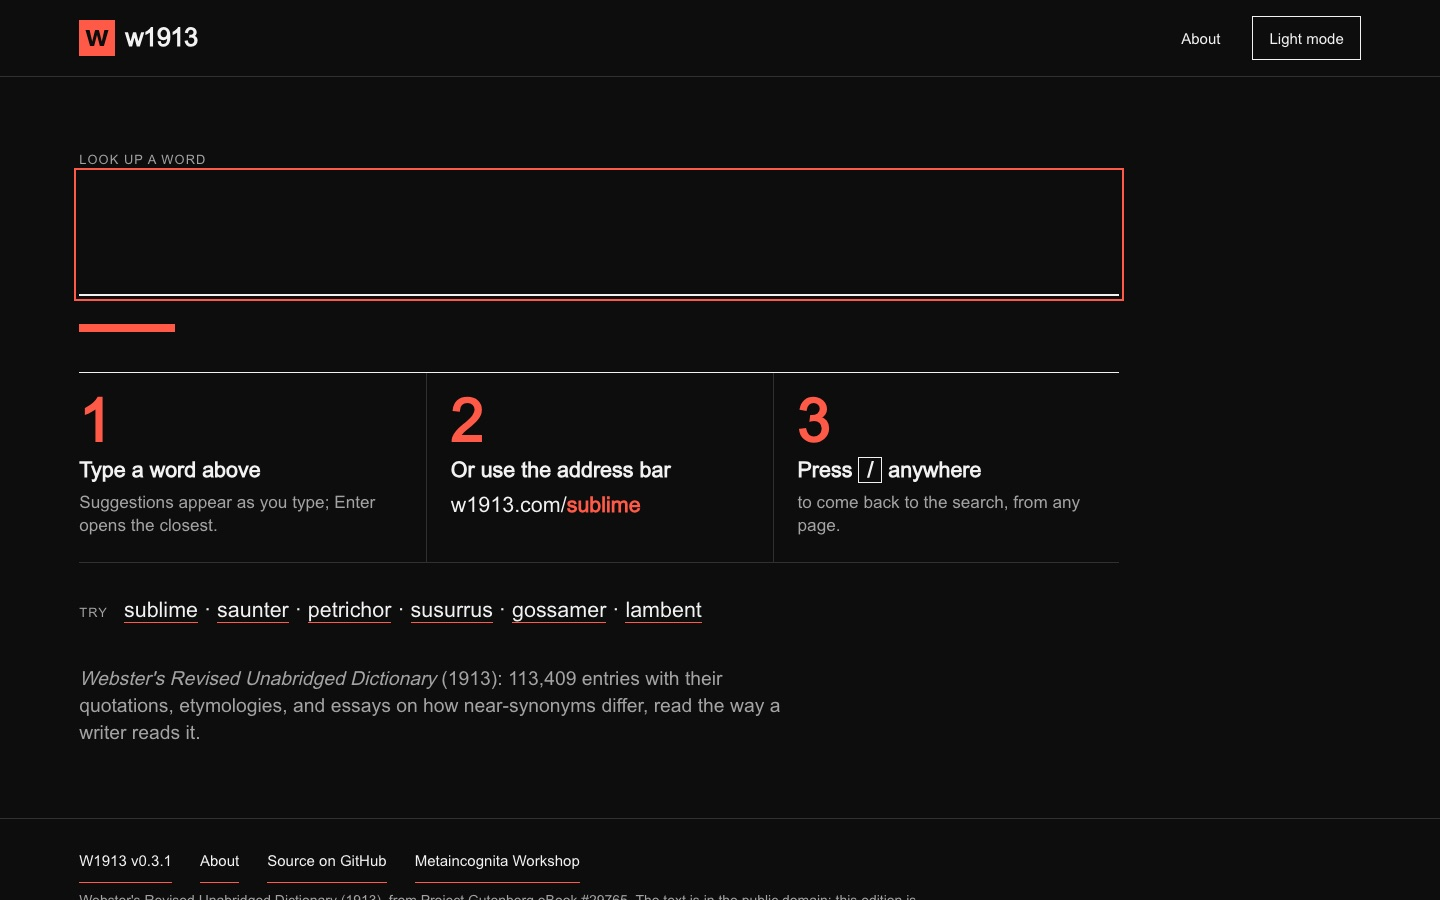
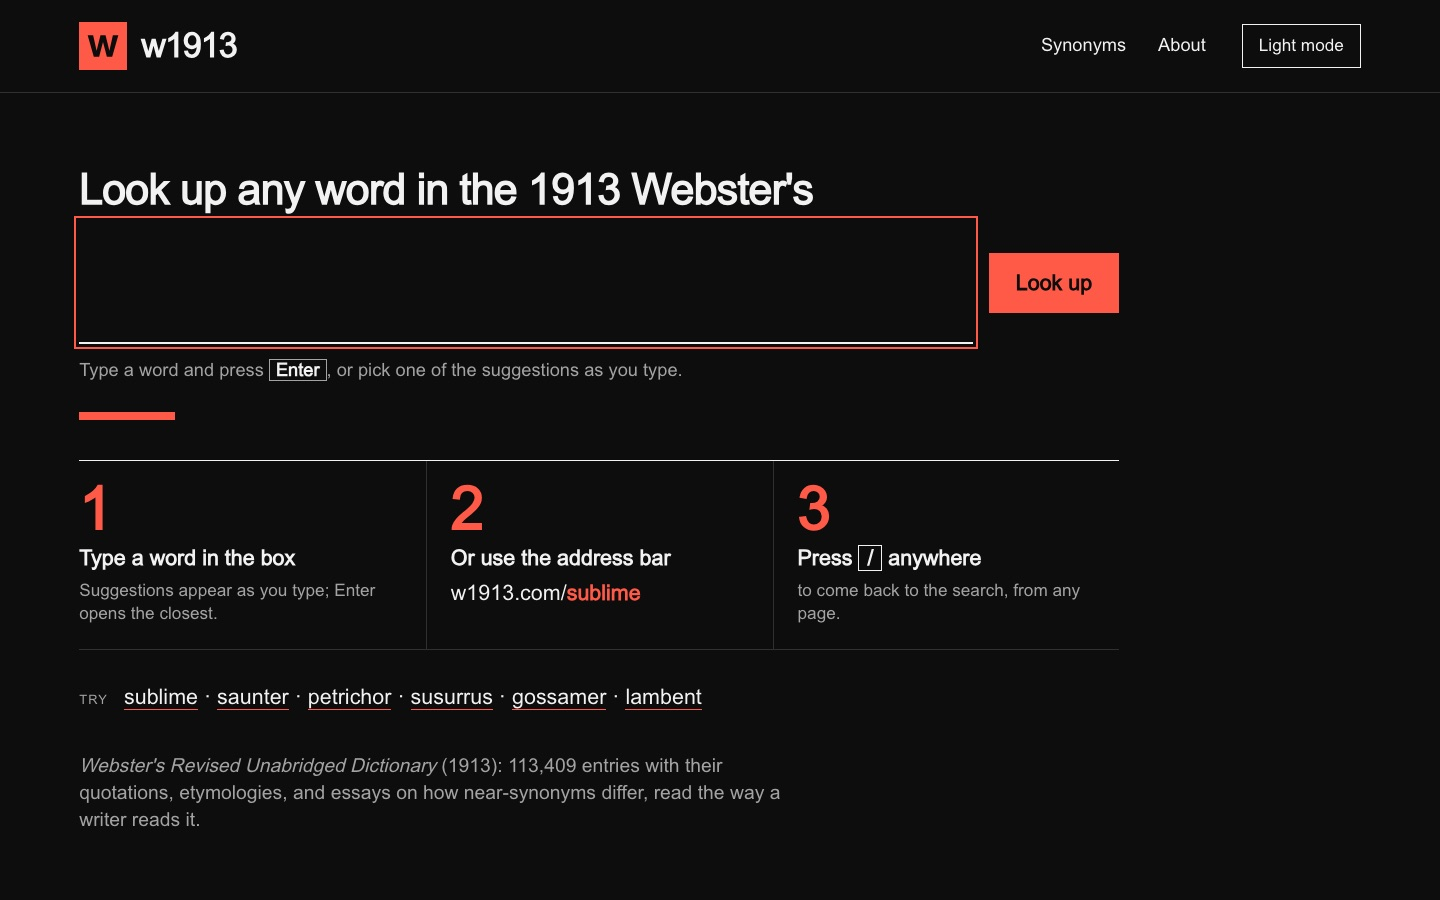
v0.6.1: say what the home page is for; a larger header
- Home: a visible heading that labels the field ('Look up any word in
  the 1913 Webster's'), a red Look up button beside the field (on entry
  pages too), and a one-line instruction under it.
- Header: logo badge 48 px, wordmark 32 px, larger links and theme
  button.
- README screenshots refreshed.

diff --git a/apps/site/app/components/SearchBox.vue b/apps/site/app/components/SearchBox.vue
@@ -83,7 +83,8 @@ const itemClass = computed(() => (props.size === "hero" ? "rounded-none text-xl 
 
 <template>
   <form role="search" :class="['box', size === 'hero' ? 'is-hero' : 'is-bar']" @submit.prevent="freeText(term)">
-    <label for="lookup" class="cap lbl">Look up a word</label>
+    <h1 v-if="size === 'hero'" class="ask"><label for="lookup">Look up any word in the 1913 Webster's</label></h1>
+    <label v-else for="lookup" class="cap lbl">Look up a word</label>
     <div class="row">
     <UInputMenu
       id="lookup"
@@ -107,9 +108,11 @@ const itemClass = computed(() => (props.size === "hero" ? "rounded-none text-xl 
         <span class="cap">Type a word</span>
       </template>
     </UInputMenu>
+    <button type="submit" class="btn go">Look up</button>
     <button v-if="term" type="button" class="btn clear" @click="clear">Clear<span class="vh"> the search</span></button>
     </div>
-    <p v-if="size === 'bar'" class="hint" aria-hidden="true">Press <kbd>/</kbd> or <kbd>Ctrl K</kbd> to look up from anywhere</p>
+    <p v-if="size === 'hero'" class="hint big">Type a word and press <kbd>Enter</kbd>, or pick one of the suggestions as you type.</p>
+    <p v-else class="hint" aria-hidden="true">Press <kbd>/</kbd> or <kbd>Ctrl K</kbd> to look up from anywhere</p>
   </form>
 </template>
 
@@ -119,7 +122,12 @@ const itemClass = computed(() => (props.size === "hero" ? "rounded-none text-xl 
 .row { display: flex; align-items: center; gap: 16px; }
 .field { display: flex; width: 100%; flex: 1; min-width: 0; }
 .clear { flex: none; }
-.is-hero .clear { min-height: 56px; padding: 0 22px; font-size: 18px; }
+.go { flex: none; background: var(--ac); color: var(--on); border-color: var(--ac); font-weight: 700; }
+.go:hover { background: transparent; color: var(--ac); }
+.is-hero .clear, .is-hero .go { min-height: 60px; padding: 0 26px; font-size: 20px; }
+.ask { margin: 0 0 8px; font-size: clamp(24px, 3.4vw, 40px); font-weight: 700; letter-spacing: -.02em; line-height: 1.15; }
+.hint.big { margin-top: 14px; font-size: 17px; }
+@media (max-width: 560px) { .row { flex-wrap: wrap; } .field { flex-basis: 100%; } }
 .box :deep(input) { width: 100%; }
 .is-bar { max-width: 860px; }
 .is-hero :deep(input) { height: auto; padding-top: 4px; padding-bottom: 8px; font-size: clamp(40px, 8vw, 104px); font-weight: 700; letter-spacing: -.045em; line-height: 1.05; }

diff --git a/apps/site/app/components/SiteHeader.vue b/apps/site/app/components/SiteHeader.vue
@@ -2,7 +2,7 @@
   <header class="pad hdr">
     <!-- The badge is a drawing (no text), so the link's name is its visible word plus "home" (WCAG 2.5.3). -->
     <NuxtLink to="/" class="t mark">
-      <svg class="badge" viewBox="0 0 36 36" width="36" height="36" aria-hidden="true" focusable="false">
+      <svg class="badge" viewBox="0 0 36 36" width="48" height="48" aria-hidden="true" focusable="false">
         <rect width="36" height="36" fill="currentColor" />
         <path d="M6.5 10h4.1l2.6 11.6L16.1 10h3.8l2.9 11.6L25.4 10h4.1l-4.6 16h-4l-2.9-11-2.9 11h-4z" fill="var(--on)" />
       </svg>
@@ -17,12 +17,12 @@
 </template>
 
 <style scoped>
-.hdr { display: flex; flex-wrap: wrap; align-items: center; gap: 12px 32px; padding-top: 16px; padding-bottom: 16px; border-bottom: 1px solid var(--ln); }
+.hdr { display: flex; flex-wrap: wrap; align-items: center; gap: 12px 36px; padding-top: 22px; padding-bottom: 22px; border-bottom: 1px solid var(--ln); }
 /* The logo: the accent square from the social card, with the wordmark. */
-.mark { gap: 10px; margin-right: auto; }
-.badge { width: 36px; height: 36px; color: var(--ac); flex: none; }
-.word { font-size: 24px; font-weight: 700; letter-spacing: -.03em; }
+.mark { gap: 14px; margin-right: auto; }
+.badge { width: 48px; height: 48px; color: var(--ac); flex: none; }
+.word { font-size: 32px; font-weight: 700; letter-spacing: -.035em; }
 .mark:hover .word { color: var(--ac); }
-.sections { display: flex; flex-wrap: wrap; gap: 0 28px; font-size: 14px; }
+.sections { display: flex; flex-wrap: wrap; gap: 0 32px; font-size: 17px; }
 .sections .on { font-weight: 700; box-shadow: inset 0 -2px 0 var(--ac); }
 </style>

diff --git a/apps/site/app/pages/index.vue b/apps/site/app/pages/index.vue
@@ -10,14 +10,13 @@ const host = config.site.url.replace(/^https?:\/\//, "");
 
 <template>
   <div class="home">
-    <h1 class="vh">W1913: Webster's Revised Unabridged Dictionary (1913)</h1>
     <SearchBox size="hero" autofocus />
     <div aria-hidden="true" class="bar" />
 
     <ol class="ways" aria-label="Ways to look up a word">
       <li>
         <span class="num">1</span>
-        <span class="what">Type a word above</span>
+        <span class="what">Type a word in the box</span>
         <span class="how">Suggestions appear as you type; Enter opens the closest.</span>
       </li>
       <li>

diff --git a/apps/site/app/components/ThemeToggle.vue b/apps/site/app/components/ThemeToggle.vue
@@ -9,9 +9,13 @@ function toggle() {
 
 <template>
   <ClientOnly>
-    <button type="button" class="btn" @click="toggle">{{ isDark ? "Light mode" : "Dark mode" }}</button>
+    <button type="button" class="btn tbtn" @click="toggle">{{ isDark ? "Light mode" : "Dark mode" }}</button>
     <template #fallback>
       <button type="button" class="btn" disabled>Light mode</button>
     </template>
   </ClientOnly>
 </template>
+
+<style scoped>
+.tbtn { font-size: 16px; }
+</style>

diff --git a/README.md b/README.md
@@ -1,7 +1,7 @@
 ![w1913.com: W for Webster's, 1913 for the Revised Unabridged edition. A dictionary for writers.](assets/og-image.png)
 
 [![Live: w1913.com](https://img.shields.io/badge/live-w1913.com-c8102e.svg)](https://w1913.com)
-[![Version 0.6.0](https://img.shields.io/badge/version-0.6.0-111111.svg)](CHANGELOG.md)
+[![Version 0.6.1](https://img.shields.io/badge/version-0.6.1-111111.svg)](CHANGELOG.md)
 [![Code: MIT](https://img.shields.io/badge/code-MIT-111111.svg)](LICENSE)
 [![Data: CC0 1.0](https://img.shields.io/badge/data-CC0%201.0-111111.svg)](LICENSE-DATA)
 [![Node 24](https://img.shields.io/badge/node-24-111111.svg)](.nvmrc)
@@ -15,7 +15,7 @@ The 1913 Webster's is loved for its discursive definitions, its literary quotati
 
 **Live at [w1913.com](https://w1913.com).** Type any word after the address: [w1913.com/sublime](https://w1913.com/sublime).
 
-![The W1913 home page: a large "Look up a word" field with the red accent bar, and a three-step guide: type a word, use the address bar, press / anywhere.](docs/images/home.jpg)
+![The W1913 home page: the heading "Look up any word in the 1913 Webster's", a large empty field with a red Look up button, a one-line instruction, and a three-step guide: type a word, use the address bar, press / anywhere.](docs/images/home.jpg)
 
 ## What it does today
 
@@ -23,6 +23,8 @@ The 1913 Webster's is loved for its discursive definitions, its literary quotati
 - **Syllables and stress**, read from the dictionary's own marks: **Sub** · tle, "2 syllables, stress on the first".
 - **Say it**: the headword spoken by your device's own voice, offline, with nothing sent anywhere.
 - **Unusual-word previews**: a word in a definition that is rare in the dictionary's own definitions (*consternation*, *plagiarist*, *decennary*) has a dashed underline; point at it or tab to it for its first sense.
+
+  ![The entry for Dismay: the headword with Say it, syllables, decoded abbreviations, numbered senses with "appall" and "consternation" underlined as unusual words, and the synonyms.](docs/images/entry-dismay.jpg)
 - **Abbreviations decoded**: *OE.* Old English, *fr.* from, *[Obs.]* obsolete, with a key at the foot of each page.
 - **Words that point here**: the entries that say "See *X*", "Cf. *X*", or "Same as *X*".
 - **Synonyms**: each entry's synonym list with every word linked; the dictionary's **624 essays** on how near-synonyms differ, shown on every word they compare and collected at [/synonyms](https://w1913.com/synonyms); "Listed as a synonym under" for each word; and a side-by-side **compare** page ([abandon, desert, forsake](https://w1913.com/synonyms/compare?w=abandon,desert,forsake)).
@@ -101,7 +103,7 @@ cd ~/w1913.com          # the checkout
 ./rebuild.sh --rollback # back to the previous release
 ```
 
-Each deploy builds a complete new release beside the live one, runs it on a spare port, and switches only if it answers. Then it checks the live port and the public address through nginx. Every check requires the new version and commit, and the smoke paths to answer. A failure at the live port rolls back automatically. The last line names what is live: `Deployed W1913 v0.6.0 (<commit>)`. `./rebuild.sh --help` lists the settings; DESIGN.md §3 "Deploying" explains the layout.
+Each deploy builds a complete new release beside the live one, runs it on a spare port, and switches only if it answers. Then it checks the live port and the public address through nginx. Every check requires the new version and commit, and the smoke paths to answer. A failure at the live port rolls back automatically. The last line names what is live: `Deployed W1913 v0.6.1 (<commit>)`. `./rebuild.sh --help` lists the settings; DESIGN.md §3 "Deploying" explains the layout.
 
 ## Licence
 

diff --git a/CHANGELOG.md b/CHANGELOG.md
@@ -17,6 +17,17 @@ Design history (Drafts 2–5.5) is kept in DESIGN.md §9.
 
 ## [Unreleased]
 
+## [0.6.1] - 2026-11-27
+
+### Changed
+
+- The home page says what it is for: a heading, "Look up any word in the 1913 Webster's" (also
+  the field's label), a red **Look up** button beside the field, and a one-line instruction under
+  it. Entry pages get the Look up button too.
+- A larger header: the logo badge 48 px (was 36), the wordmark 32 px (was 24), larger navigation
+  links and theme button, more room around them.
+- README screenshots updated (the home page; an entry with unusual words).
+
 ## [0.6.0] - 2026-11-27
 
 ### Added
@@ -197,7 +208,8 @@ First public release: w1913.com.
   p. ...]"), variants separated by spaces are split, a form ends at ". " when there is no part of
   speech, and a long header form no longer replaces the headword. Parser version 0.1.1.
 
-[Unreleased]: https://github.com/cschweda/w1913/compare/v0.6.0...HEAD
+[Unreleased]: https://github.com/cschweda/w1913/compare/v0.6.1...HEAD
+[0.6.1]: https://github.com/cschweda/w1913/compare/v0.6.0...v0.6.1
 [0.6.0]: https://github.com/cschweda/w1913/compare/v0.5.0...v0.6.0
 [0.5.0]: https://github.com/cschweda/w1913/compare/v0.4.0...v0.5.0
 [0.4.0]: https://github.com/cschweda/w1913/compare/v0.3.2...v0.4.0
